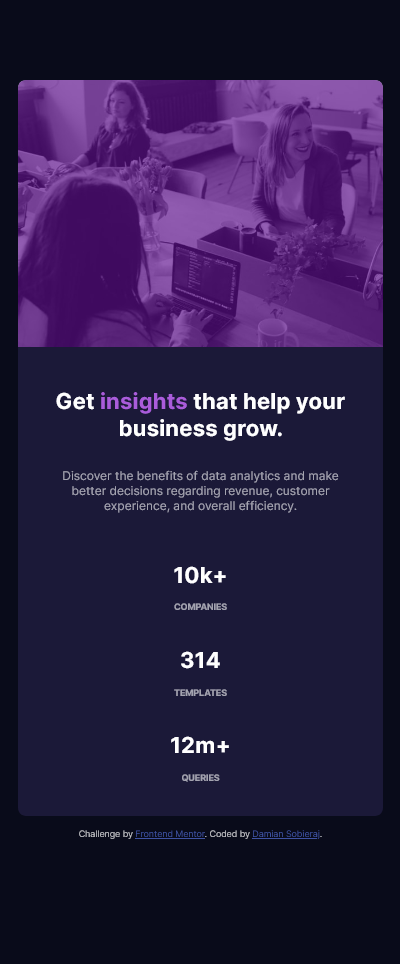
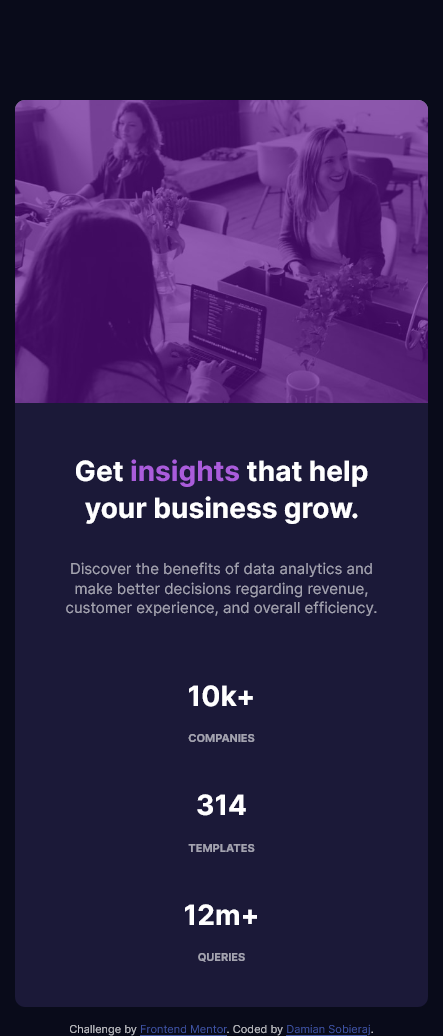
commit

Changed region(s): [[0.03, 0.0622, 0.99, 1.0]]

diff --git a/dist/style.css b/dist/style.css
@@ -5,8 +5,22 @@ body {
   color: rgba(255, 255, 255, 0.75);
 }
 
+html {
+  font-size: 100%;
+  -webkit-box-sizing: border-box;
+          box-sizing: border-box;
+}
+
+*, *::before, *::after {
+  -webkit-box-sizing: inherit;
+          box-sizing: inherit;
+}
+
 body {
+  line-height: 1.3;
   background-color: #090b1a;
+  margin: 0;
+  padding: 0;
 }
 
 .box {

diff --git a/app/scss/_main.scss b/app/scss/_main.scss
@@ -1,5 +1,15 @@
+html{
+    font-size: 100%;
+    box-sizing: border-box;
+}
+*, *::before, *::after{
+    box-sizing: inherit;
+}
 body{
+    line-height: 1.3;
      background-color: $veryDarkBlue;
+     margin: 0;
+     padding: 0;
 }
 
 .box{
